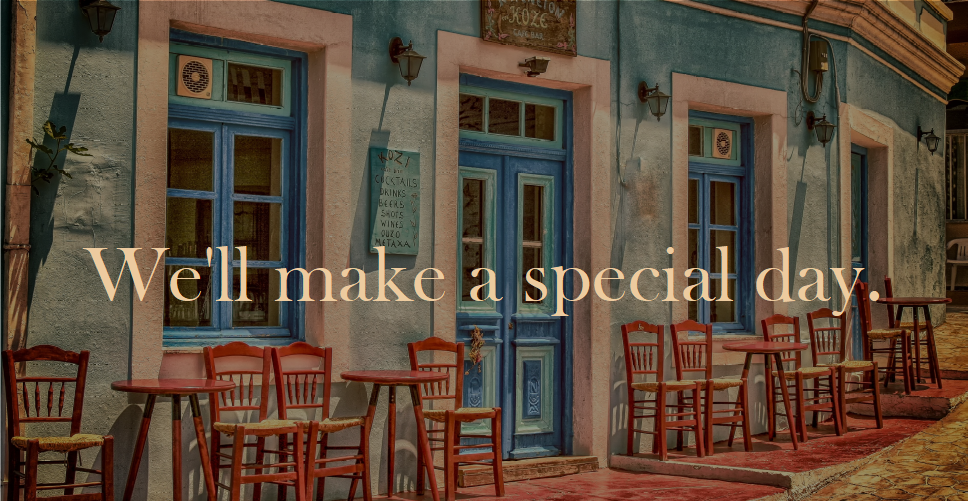
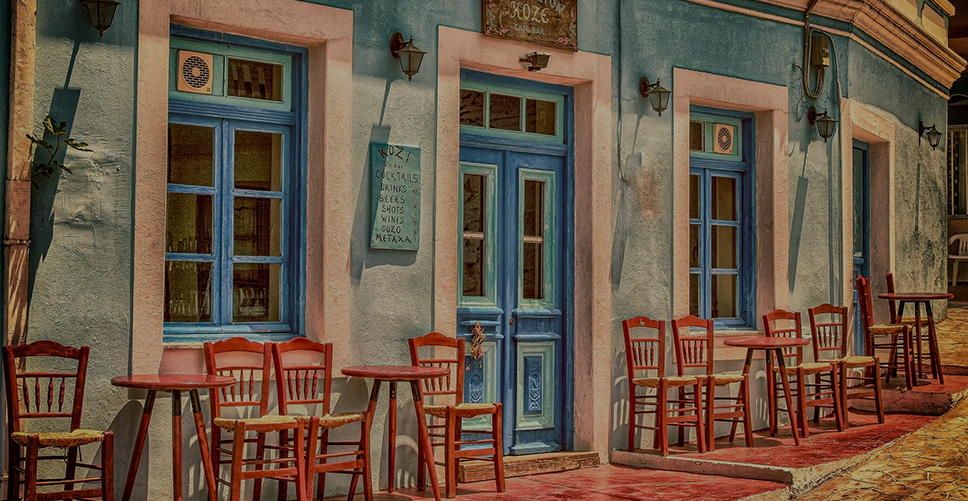
modify main page poster subtitle

diff --git a/index.html b/index.html
@@ -68,8 +68,13 @@
         <div class="row">
             <!--poster of tab/phone webside-->
             <div class="poster bg-center row justify-content-center">
-                <a class="row align-self-end" id="home_arrow_down">
-                    <img class="arrow_down" src="./img/arrow_down.png"></a>
+                <div class="col-12 align-self-center">
+                    <h1 class="row justify-content-center text-center title light-title">We'll make a special day</h1>
+                </div>
+                <div class="col-1 align-self-end">
+                    <a class="row align-self-end" id="home_arrow_down">
+                        <img class="arrow_down" src="./img/arrow_down.png"></a>
+                </div>
             </div>
 
             <!--Carousel of pc webside-->

diff --git a/css/style.css b/css/style.css
@@ -5,6 +5,7 @@
 
 .default-bg-color {background-color: rgb(35, 25, 0);}
 .bg-transulent-dark{ background-color: rgba(0, 0, 0, 80%); }
+.light-title{ color: #f6d3a7!important;}
 
 .bg-center{
     background-size: cover !important;
